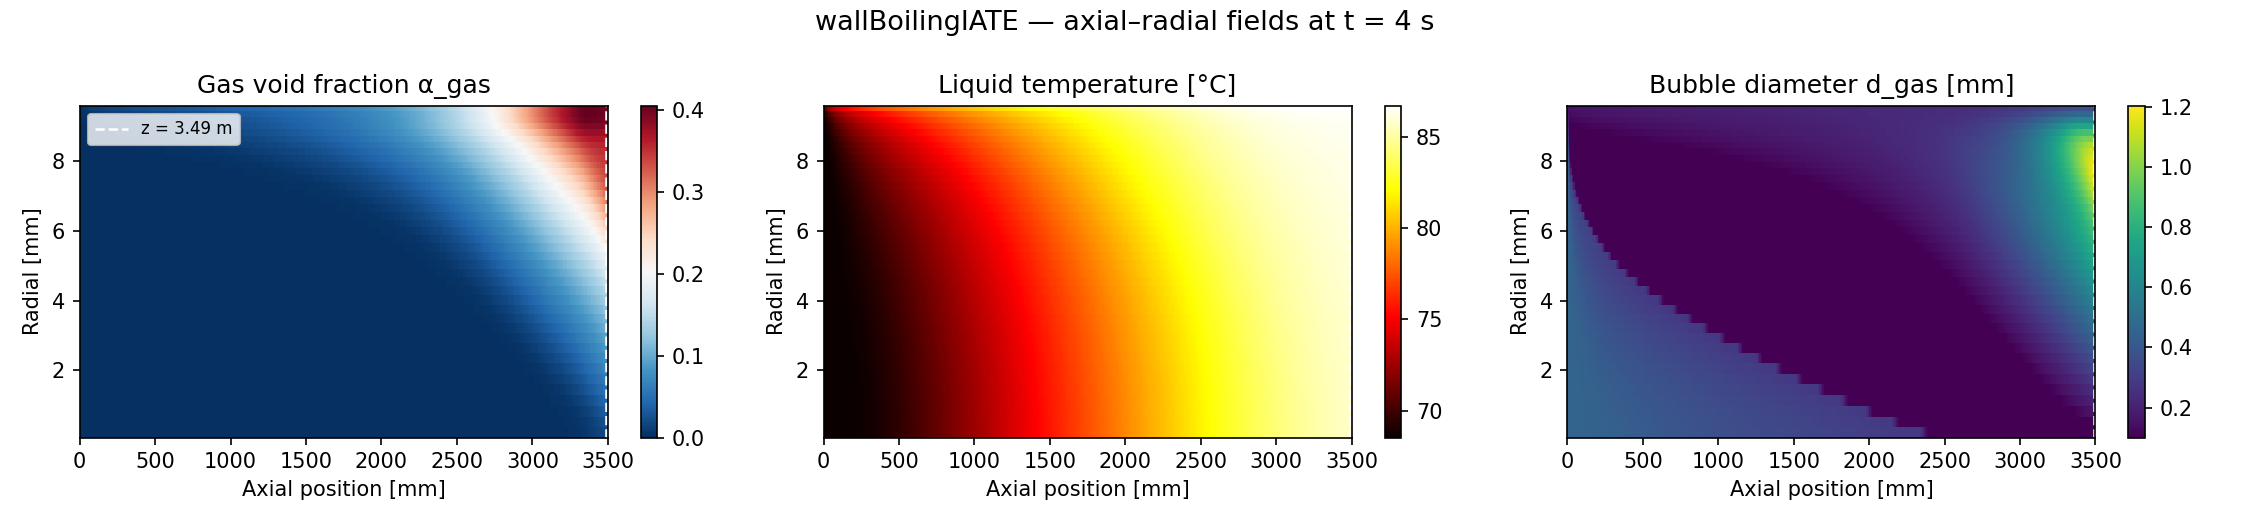
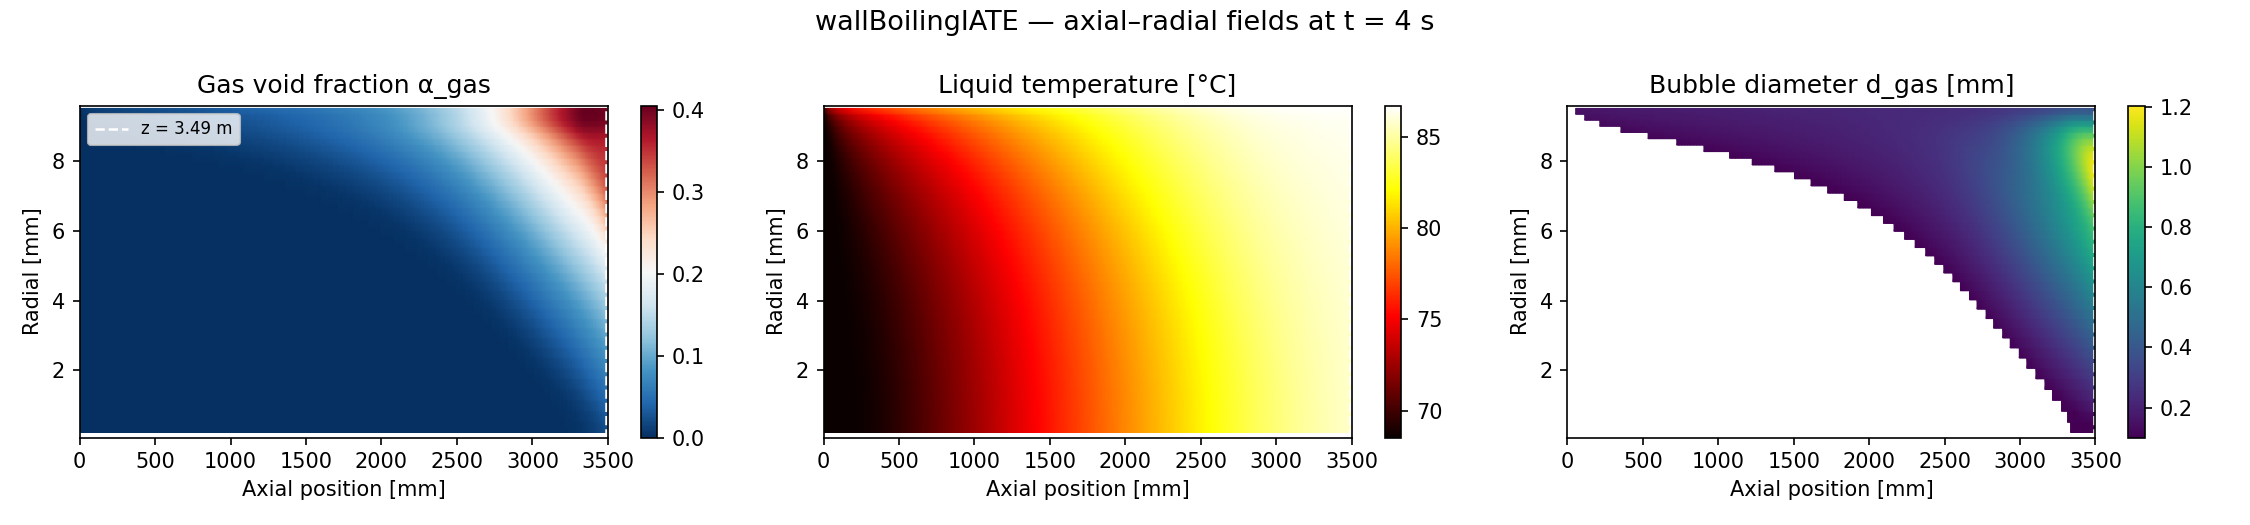
Smooth contour interpolation and mask zero-bubble-diameter regions

diff --git a/post_process.py b/post_process.py
@@ -39,7 +39,14 @@ XX, YY = np.meshgrid(xe, ye)
 # ── fields ────────────────────────────────────────────────────────────────────
 alpha2d = reshape2d(parse_scalar(f'{CASE}/4/alpha.gas'))
 T2d     = reshape2d(parse_scalar(f'{CASE}/4/T.liquid') - 273.15)
-d2d     = reshape2d(parse_scalar(f'{CASE}/4/d.gas') * 1000)
+d2d_raw = reshape2d(parse_scalar(f'{CASE}/4/d.gas') * 1000)
+# Mask bubble diameter where there are essentially no bubbles — avoids
+# spurious colour in the sub-cooled core and near the inlet.
+d2d = np.ma.masked_where(alpha2d < 0.005, d2d_raw)
+
+# pcolormesh with gouraud shading interpolates colours between cell centres
+# for a smooth result; requires cell-centre coordinates (not edges).
+XC, YC = np.meshgrid(xc_1d * 1000, yc_1d * 1000)
 
 # ── 2D field contours ─────────────────────────────────────────────────────────
 fig, axes = plt.subplots(1, 3, figsize=(15, 3.5))
@@ -49,7 +56,8 @@ for ax, F, title, cmap in zip(axes,
         [alpha2d, T2d, d2d],
         ['Gas void fraction α_gas', 'Liquid temperature [°C]', 'Bubble diameter d_gas [mm]'],
         ['RdBu_r', 'hot', 'viridis']):
-    im = ax.pcolormesh(XX, YY, F, cmap=cmap, shading='auto')
+    im = ax.pcolormesh(XC, YC, F, cmap=cmap, shading='gouraud')
+    ax.set_xlim(xe[0], xe[-1]); ax.set_ylim(ye[0], ye[-1])
     ax.axvline(3490.1, color='white', lw=1.2, ls='--', label='z = 3.49 m')
     ax.set_xlabel('Axial position [mm]')
     ax.set_ylabel('Radial [mm]')
